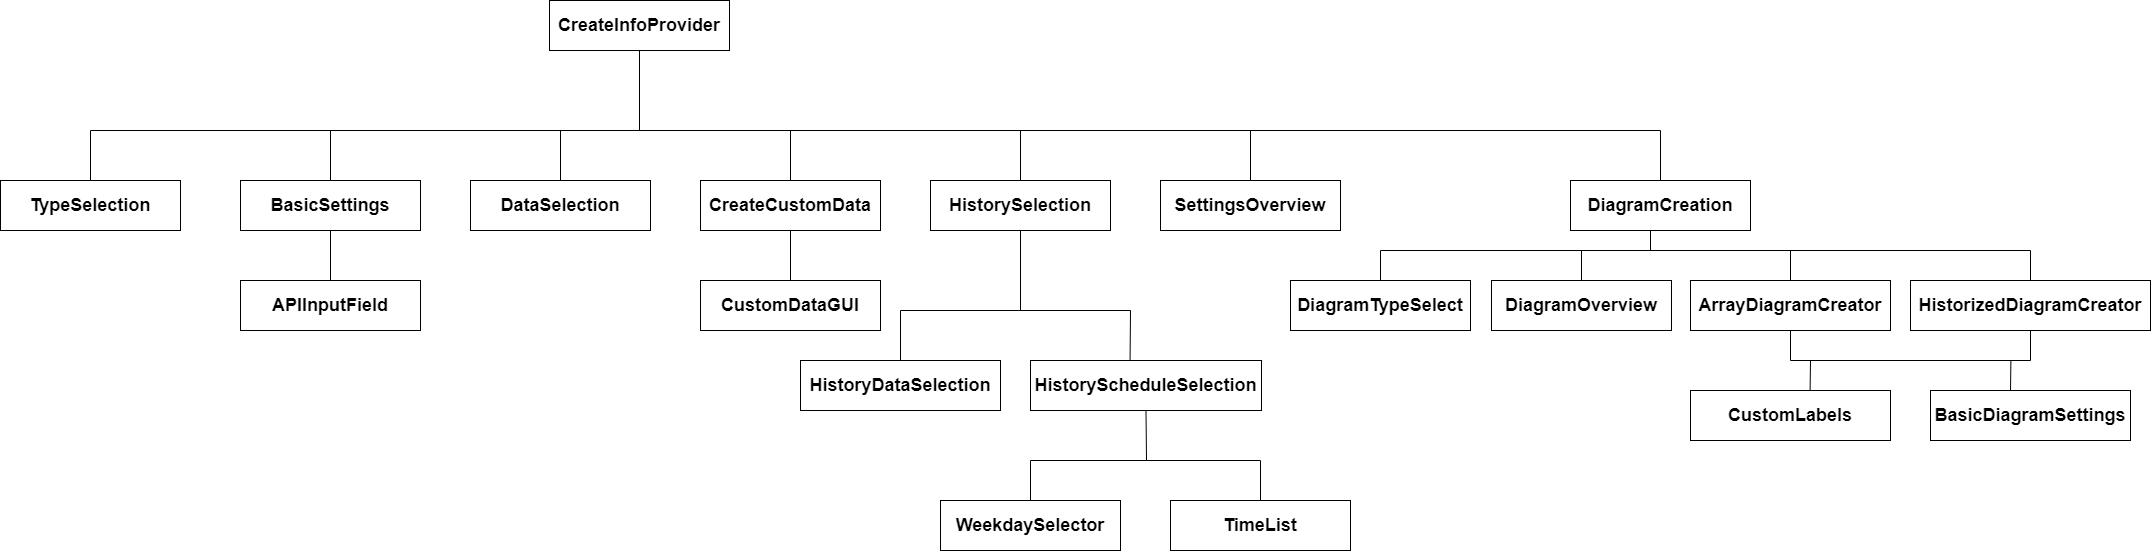
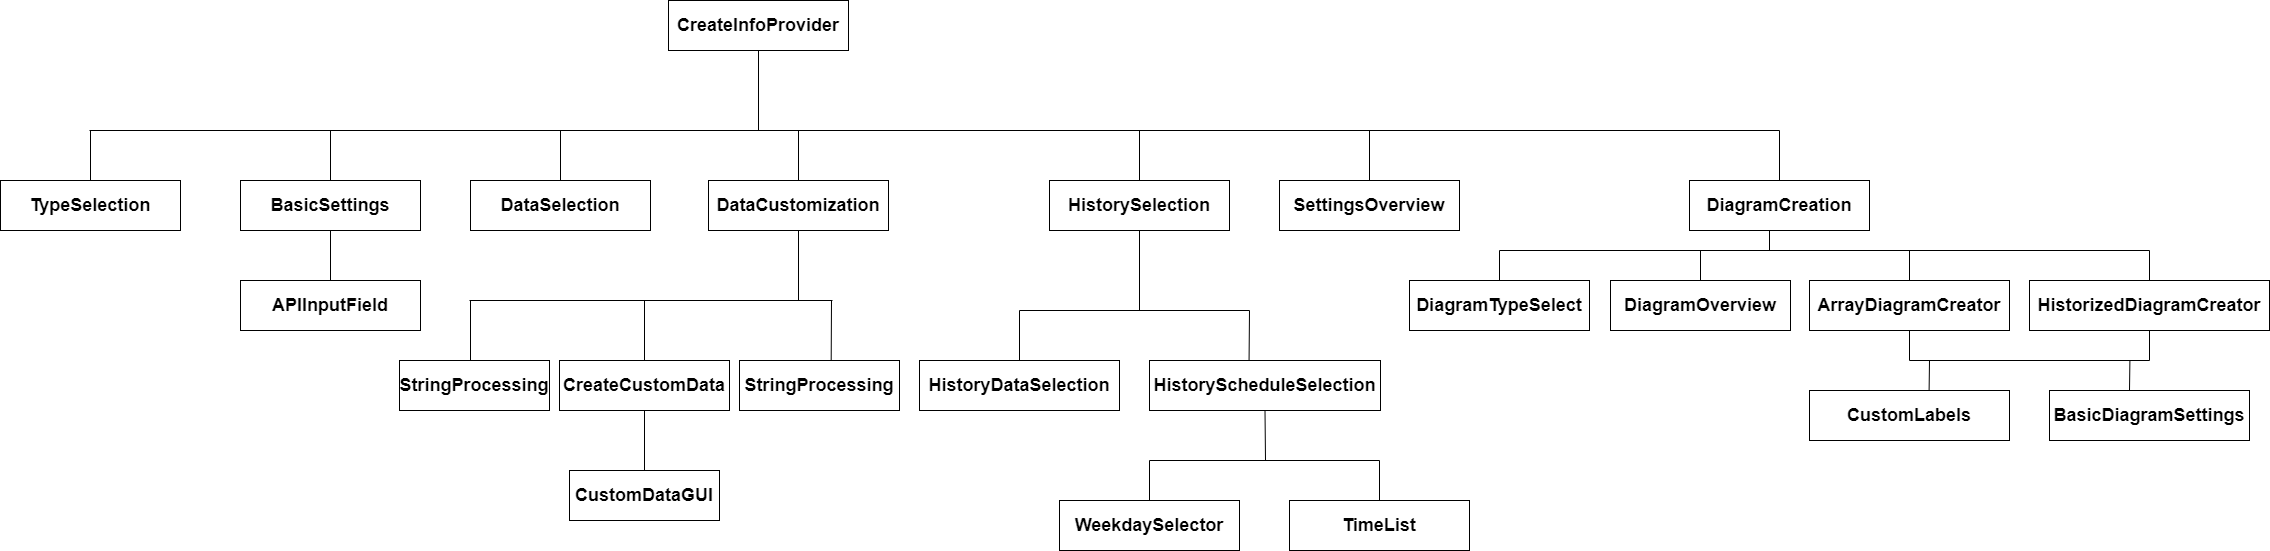
small changes made while writing the documentation

diff --git a/src/frontend/src/CreateInfoProvider/DataCustomization/ArrayProcessing/index.tsx b/src/frontend/src/CreateInfoProvider/DataCustomization/ArrayProcessing/index.tsx
@@ -45,9 +45,6 @@ DONE:
  9: Alle kompatiblen Arrays beim Laden berechnen - numerische Arrays, vielleicht auch alle numerischen Attribute aus Objekten in Arrays
 TODO:
 10: Design-Verbesserungen
-
-
-
  */
 
 /**
@@ -95,9 +92,13 @@ export const ArrayProcessing: React.FC<ArrayProcessingProps> = (props) => {
         listItems.forEach((listItem) => {
             //check if the search is for arrays or only primitive values because its a recursive search inside an object in array
             if(noArray) {
-                //only search for primitive numeric values
+                //only search for primitive numeric values and objects
                 if(!listItem.arrayRep && !Array.isArray(listItem.value) && (listItem.value === "Zahl" || listItem.value === "Gleitkommazahl"))
                     compatibleArraysList.push((listItem.parentKeyName === "" ? listItem.keyName : listItem.parentKeyName + "|" + listItem.keyName).replace("|0", ""));
+                else if(!listItem.arrayRep && Array.isArray(listItem.value)) {
+                    //the element is an object, its children need to be searched through - dont check arrays in this search
+                    compatibleArraysList = compatibleArraysList.concat(getProcessableArrays(listItem.value, true));
+                }
             } else {
                 //check if it is a primative array containing
                 if(listItem.arrayRep) {

diff --git a/src/frontend/src/CreateInfoProvider/DataCustomization/StringProcessing/index.tsx b/src/frontend/src/CreateInfoProvider/DataCustomization/StringProcessing/index.tsx
@@ -63,8 +63,6 @@ export const StringProcessing: React.FC<StringProcessingProps> = (props) => {
     const [withString, setWithString] = React.useState("");
     //list of all strings available
     const [availableStrings, setAvailableStrings] = React.useState<Array<string>>(["string_1", "string_2", "string_3"]);
-    //list of all created processing pairs
-
 
     /**
      * Method that calculates all available strings for the list generation.
@@ -76,9 +74,11 @@ export const StringProcessing: React.FC<StringProcessingProps> = (props) => {
 
         listItems.forEach((listItem) => {
             if(noArray) {
-                //only search for primitive numeric values
+                //only search for primitive string values and objects
                 if(!listItem.arrayRep && !Array.isArray(listItem.value) && listItem.value === "Text")
                     availableStrings.push(listItem.parentKeyName === "" ? listItem.keyName : listItem.parentKeyName + "|" + listItem.keyName);
+                else if(!listItem.arrayRep && Array.isArray(listItem.value))
+                    availableStrings = availableStrings.concat(getAvailableStrings(listItem.value, true));
             } else {
                 //check if it is an array
                 if(listItem.arrayRep) {

diff --git a/src/frontend/src/CreateInfoProvider/DataCustomization/index.tsx b/src/frontend/src/CreateInfoProvider/DataCustomization/index.tsx
@@ -33,8 +33,8 @@ interface DataCustomizationProps {
  * Wrapper component for the three steps of data customization: Array processing, formula creation, string processing.
  */
 export const DataCustomization: React.FC<DataCustomizationProps> = (props) => {
-    const classes = useStyles();
 
+    const classes = useStyles();
 
     /**
      * Method that selects the contents to be displayed based on the current step.
